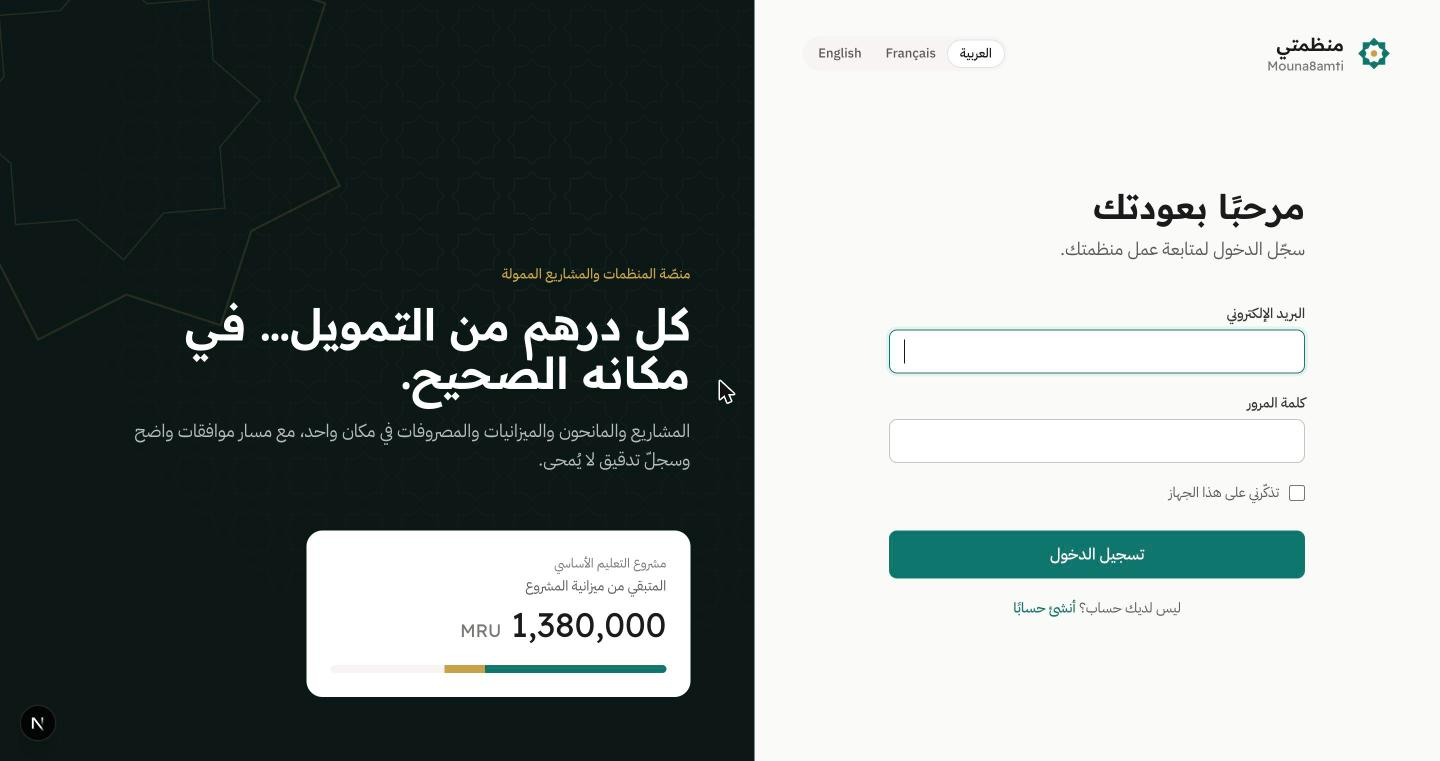
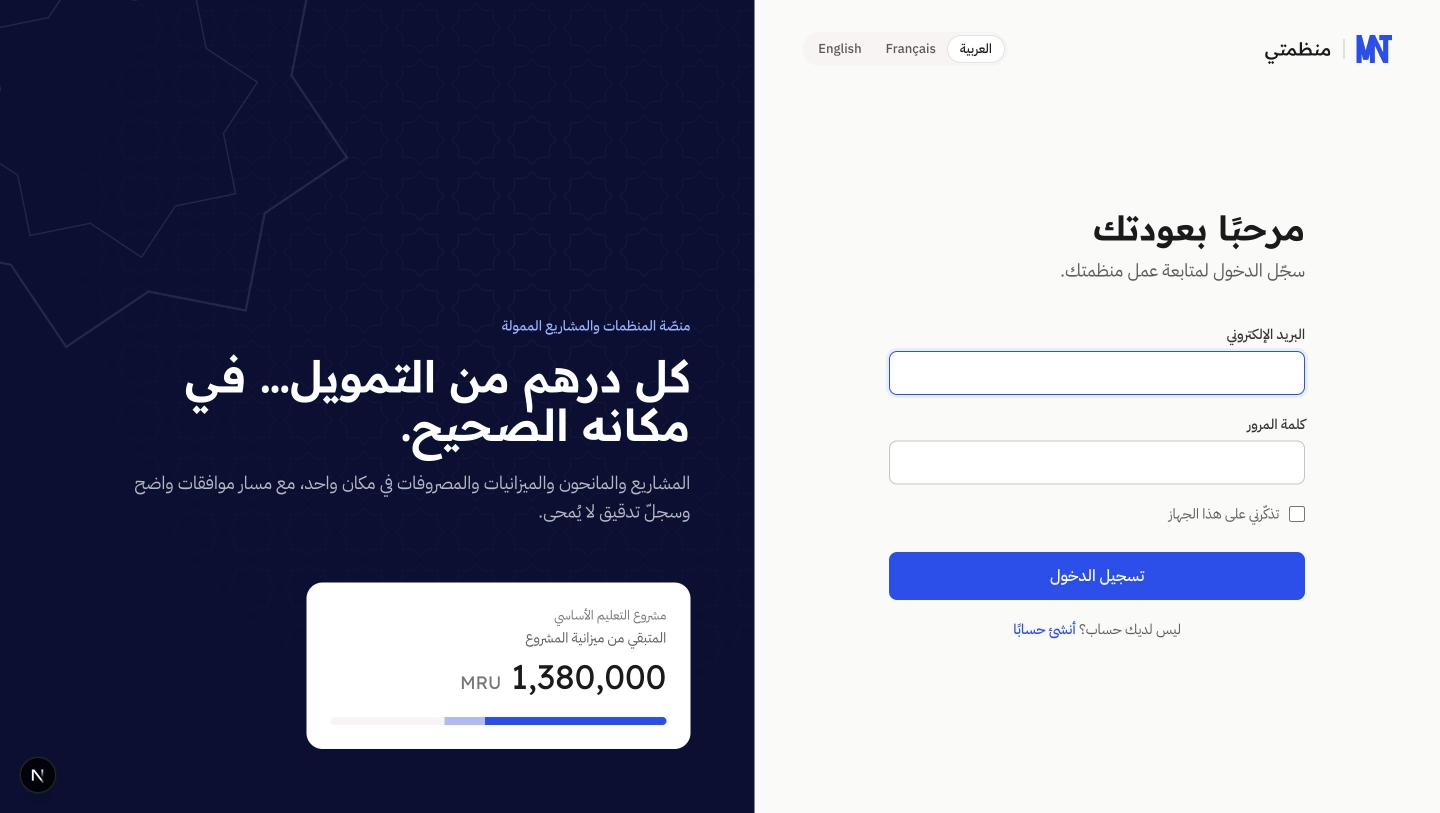
docs: rebrand to MNT in the design system, README and demo data

diff --git a/apps/api/database/seeders/DemoSeeder.php b/apps/api/database/seeders/DemoSeeder.php
@@ -22,15 +22,15 @@ use RuntimeException;
  */
 class DemoSeeder extends Seeder
 {
-    public const PASSWORD = 'Mouna8amti-demo-2026';
+    public const PASSWORD = 'MntDemo-2026';
 
     /** @var array<string, array{name: string, role: SystemRole, title: string}> */
     private const TEAM = [
-        'director@demo.mouna8amti.test' => ['name' => 'محمد الأمين', 'role' => SystemRole::Director, 'title' => 'المدير التنفيذي'],
-        'accountant@demo.mouna8amti.test' => ['name' => 'سيدي محمد', 'role' => SystemRole::Accountant, 'title' => 'محاسب'],
-        'coordinator@demo.mouna8amti.test' => ['name' => 'فاطمة بنت أحمد', 'role' => SystemRole::ProjectCoordinator, 'title' => 'منسقة المشاريع'],
-        'hr@demo.mouna8amti.test' => ['name' => 'مريم عبد الله', 'role' => SystemRole::HrOfficer, 'title' => 'مسؤولة الموارد البشرية'],
-        'donor@demo.mouna8amti.test' => ['name' => 'Claire Martin', 'role' => SystemRole::DonorViewer, 'title' => 'Chargée de programme'],
+        'director@demo.mnt.test' => ['name' => 'محمد الأمين', 'role' => SystemRole::Director, 'title' => 'المدير التنفيذي'],
+        'accountant@demo.mnt.test' => ['name' => 'سيدي محمد', 'role' => SystemRole::Accountant, 'title' => 'محاسب'],
+        'coordinator@demo.mnt.test' => ['name' => 'فاطمة بنت أحمد', 'role' => SystemRole::ProjectCoordinator, 'title' => 'منسقة المشاريع'],
+        'hr@demo.mnt.test' => ['name' => 'مريم عبد الله', 'role' => SystemRole::HrOfficer, 'title' => 'مسؤولة الموارد البشرية'],
+        'donor@demo.mnt.test' => ['name' => 'Claire Martin', 'role' => SystemRole::DonorViewer, 'title' => 'Chargée de programme'],
     ];
 
     public function run(CreateOrganization $createOrganization, TenantContext $tenant): void
@@ -41,7 +41,7 @@ class DemoSeeder extends Seeder
         }
 
         $admin = User::query()->firstOrCreate(
-            ['email' => 'admin@demo.mouna8amti.test'],
+            ['email' => 'admin@demo.mnt.test'],
             ['name' => 'الشيخ أحمد', 'password' => self::PASSWORD, 'locale' => 'ar'],
         );
 
@@ -91,7 +91,7 @@ class DemoSeeder extends Seeder
         }
 
         $coordinatorSeat = Membership::query()
-            ->whereHas('user', fn ($q) => $q->where('email', 'coordinator@demo.mouna8amti.test'))
+            ->whereHas('user', fn ($q) => $q->where('email', 'coordinator@demo.mnt.test'))
             ->value('id');
 
         foreach ([

diff --git a/DESIGN.md b/DESIGN.md
@@ -1,27 +1,25 @@
 ---
 version: 1.0
-name: Mouna8amti
+name: MNT
 description: >
   A calm, trustworthy operating system for NGOs. Notion's warm product chassis
   (warm neutrals, hairlines instead of shadows, pastel category tints) governed
   by Apple's discipline (one interactive colour, receding chrome, tight display
   headlines, a single elevation shadow, press-to-scale micro-interaction).
-  Signature: deep "Mizan" teal, a sparing sand-gold highlight, an 8-point
-  geometric star, and Arabic-first typography that is generous, never small.
+  Signature: one clear Lapis blue, the MNT ligature mark, and Arabic-first
+  typography that is generous, never small.
 derived_from:
   - notion   # getdesign.md/notion — VoltAgent/awesome-design-md (MIT)
   - apple    # getdesign.md/apple  — VoltAgent/awesome-design-md (MIT)
 
 colors:
   # Brand
-  primary: "#0f766e"            # Mizan teal — the ONLY interactive colour
-  primary-hover: "#0d6961"
-  primary-pressed: "#0b5952"
-  primary-soft: "#e3f2ef"       # selected rows, active nav background
+  primary: "#2b4fe8"            # Lapis — the brand colour and the ONLY interactive colour (6.2:1 on white)
+  primary-hover: "#2343d6"
+  primary-pressed: "#1d39bc"
+  primary-soft: "#e9edfd"       # selected rows, active nav background
   on-primary: "#ffffff"
-  gold: "#c8a24a"               # highlight only: focus of premium moments, star motif
-  gold-soft: "#f6eedb"
-  night: "#0b1716"              # Apple-style dark tile: auth & landing brand panels only
+  night: "#0a1033"              # Apple-style dark tile, lapis night: auth & landing brand panels only
   # Neutrals (Notion warm scale)
   canvas: "#ffffff"             # cards, tables, dialogs
   surface: "#fafaf9"            # app background
@@ -53,13 +51,11 @@ colors:
   tint-gray: "#f0eeec"
 
 colors-dark:
-  primary: "#2fb3a3"
-  primary-hover: "#3cc4b4"
-  primary-pressed: "#26988b"
-  primary-soft: "#14302c"
-  on-primary: "#06201d"
-  gold: "#d9b864"
-  gold-soft: "#2e2716"
+  primary: "#7088ff"
+  primary-hover: "#8a9dff"
+  primary-pressed: "#5a74f5"
+  primary-soft: "#182150"
+  on-primary: "#0a1033"
   canvas: "#1f1f1e"
   surface: "#171716"
   surface-sunken: "#141413"
@@ -136,14 +132,14 @@ components:
   topbar:           { height: 64px, bg: "surface @ 80% + blur", border-bottom: hairline-soft }
   dialog:           { bg: canvas, radius: lg, shadow: float, max-width: 560px }
   command-palette:  { bg: canvas, radius: lg, shadow: float, width: 640px }
-  budget-bar:       { height: 8px, radius: pill, track: surface-sunken, consumed: primary, committed: gold, over: danger }
+  budget-bar:       { height: 8px, radius: pill, track: surface-sunken, consumed: primary, committed: "primary @ 35%", over: danger }
 ---
 
-# Mouna8amti design system
+# MNT design system
 
 ## Overview
 
-Mouna8amti handles other people's money: grants from donors, spent by NGOs
+MNT (منظمتي) handles other people's money: grants from donors, spent by NGOs
 on behalf of communities. The interface has one job: make that money **legible
 and trustworthy**. The visual language says "calm, exact, accountable" the
 moment the page loads.
@@ -159,11 +155,13 @@ pressable element answers with a small scale.
 
 Our **signature** sits on top of both:
 
-- Mizan teal (`#0f766e`) is the colour of action and of balance.
-- Sand gold (`#c8a24a`) is used sparingly: the logo star, the "committed"
-  segment of a budget bar, premium empty states.
-- An 8-point geometric star echoes the "8" in Mouna8amti. It appears only on
-  the login, onboarding, empty states and PDF watermarks.
+- **One colour, Lapis `#2b4fe8`** — the outremer of Islamic manuscripts and
+  tilework: the trust that blue carries in finance, and the protection and
+  truth it carries across the Arab world. No second brand colour, no gradient.
+- **The MNT ligature** (see `docs/brand/README.md`): M, N and T share their
+  stems — one connected block, the idea of an organisation that holds together.
+- An 8-point geometric lattice, used sparingly as texture on brand surfaces
+  (login, onboarding, empty states).
 - Arabic is a first-class citizen with its own line-height and minimum size.
 
 ## Principles
@@ -197,7 +195,7 @@ Our **signature** sits on top of both:
 | Headings & figures | `ink` |
 | Body | `charcoal` |
 | Secondary / meta | `slate`, `steel` |
-| Clickable | `primary` |
+| Clickable, brand | `primary` (Lapis) |
 | Selected / active | `primary-soft` background + `primary` text |
 | Category chips (budget categories, donor types, project tags) | `tint-*` background + `charcoal` text |
 
@@ -257,8 +255,8 @@ crossfade.
   page.
 
 **Don't**
-- Don't introduce a second action colour, a gradient background on a work
-  screen, or glassmorphism cards.
+- Don't introduce a second brand or action colour, a gradient, or
+  glassmorphism cards.
 - Don't put a shadow on a card or a button.
 - Don't use font sizes under 13 px, or track Arabic text.
 - Don't use `left`/`right` in CSS, or icons that point in a fixed direction.

diff --git a/README.md b/README.md
@@ -1,8 +1,8 @@
 <div align="center">
 
-<img src="apps/web/public/brand/mark.svg" width="72" alt="" />
+<img src="apps/web/public/brand/mnt.svg" width="96" alt="MNT" />
 
-# منظمتي · Mouna8amti
+# MNT · منظمتي
 
 **A multi-tenant operating system for NGOs and donor-funded programmes.**
 Arabic-first, with French and English. Every unit of funding is traceable from the donor agreement to the receipt.
@@ -17,7 +17,7 @@ Arabic-first, with French and English. Every unit of funding is traceable from t
 
 ## Why it exists
 
-NGOs in Mauritania and the wider region run grants worth millions on spreadsheets and WhatsApp groups. Nobody can say how much of a budget line is left. Approvals leave no trace. A donor report takes days to consolidate. Mouna8amti gives these organisations a single auditable system that donors can trust, built in the language the teams actually work in.
+NGOs in Mauritania and the wider region run grants worth millions on spreadsheets and WhatsApp groups. Nobody can say how much of a budget line is left. Approvals leave no trace. A donor report takes days to consolidate. MNT gives these organisations a single auditable system that donors can trust, built in the language the teams actually work in.
 
 ## What works today
 
@@ -36,8 +36,8 @@ NGOs in Mauritania and the wider region run grants worth millions on spreadsheet
 The full product design lives in [`docs/specs`](docs/specs/2026-10-21-mouna8amti-design.md).
 
 <p align="center">
-  <img src="docs/screenshots/roles-ar.jpg" alt="Roles and permissions screen in Arabic" width="49%" />
-  <img src="docs/screenshots/team-fr.jpg" alt="Team screen in French" width="49%" />
+  <img src="docs/screenshots/projects-ar.jpg" alt="Projects screen in Arabic" width="49%" />
+  <img src="docs/screenshots/roles-fr.jpg" alt="Roles and permissions screen in French" width="49%" />
 </p>
 
 ## Architecture
@@ -51,7 +51,7 @@ mouna8amti/
 ├── docker/         PostgreSQL bootstrap (non-superuser application role)
 ├── compose.yaml    api · queue · web · pgsql · redis · mailpit
 ├── DESIGN.md       design system tokens and rules
-└── docs/           spec, architecture decisions, screenshots
+└── docs/           spec, architecture decisions, brand kit, screenshots
 ```
 
 The browser only talks to the Next.js origin. `/api/*` and `/sanctum/*` are proxied to Laravel, so the session cookie stays first-party and CORS never comes into play.
@@ -81,16 +81,16 @@ docker compose exec api php artisan migrate --seed   # schema + demo organisatio
 
 ### Demo accounts
 
-The seeder creates **منظمة الأمل للتنمية** with one account per role. All accounts share the password `Mouna8amti-demo-2026`. The seeder refuses to run outside `local`/`testing`.
+The seeder creates **منظمة الأمل للتنمية** with one account per role. All accounts share the password `MntDemo-2026`. The seeder refuses to run outside `local`/`testing`.
 
 | Email | Role |
 |---|---|
-| `admin@demo.mouna8amti.test` | Administrator |
-| `director@demo.mouna8amti.test` | Director |
-| `accountant@demo.mouna8amti.test` | Accountant |
-| `coordinator@demo.mouna8amti.test` | Project coordinator |
-| `hr@demo.mouna8amti.test` | HR officer |
-| `donor@demo.mouna8amti.test` | Donor viewer (read-only, French UI) |
+| `admin@demo.mnt.test` | Administrator |
+| `director@demo.mnt.test` | Director |
+| `accountant@demo.mnt.test` | Accountant |
+| `coordinator@demo.mnt.test` | Project coordinator |
+| `hr@demo.mnt.test` | HR officer |
+| `donor@demo.mnt.test` | Donor viewer (read-only, French UI) |
 
 ## Quality gates
 
@@ -108,7 +108,7 @@ The tests cover the risks that matter most: cross-tenant reads and writes (throu
 
 ## Design
 
-[`DESIGN.md`](DESIGN.md) is the source of truth for colours, type, spacing and motion. It starts from Notion's warm product chassis and Apple's discipline (one action colour, a single elevation shadow, press-to-scale feedback), adapted for Arabic. Body text is never smaller than 16 px, and Arabic text gets taller line-height and is never letter-spaced. The logo is a *Rub el Hizb*, an 8-point star. Its "8" is the one in Mouna8amti.
+[`DESIGN.md`](DESIGN.md) is the source of truth for colours, type, spacing and motion. It starts from Notion's warm product chassis and Apple's discipline (one colour, a single elevation shadow, press-to-scale feedback), adapted for Arabic. Body text is never smaller than 16 px, and Arabic text gets taller line-height and is never letter-spaced. The identity is **MNT**, the short form of منظمتي: a ligature where M, N and T share their stems, in one clear Lapis blue (`#2B4FE8`). See the [brand guide](docs/brand/README.md).
 
 ## Roadmap
 
